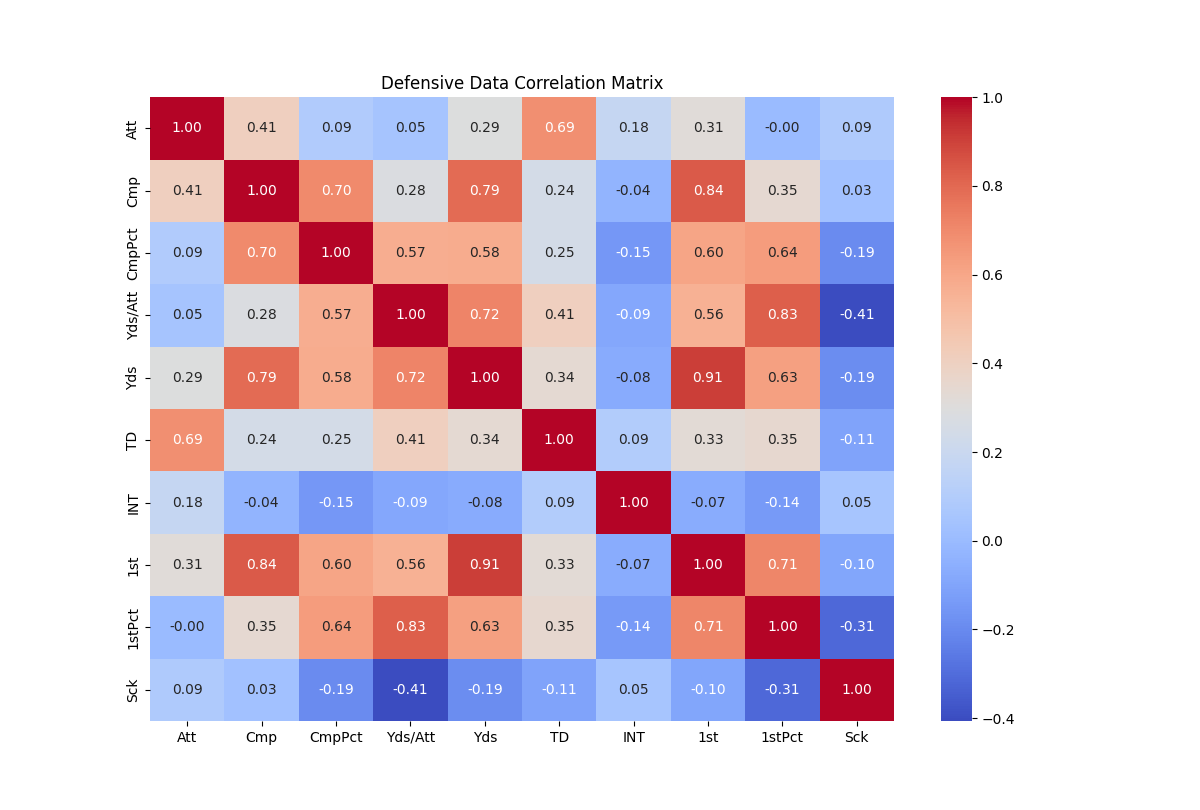
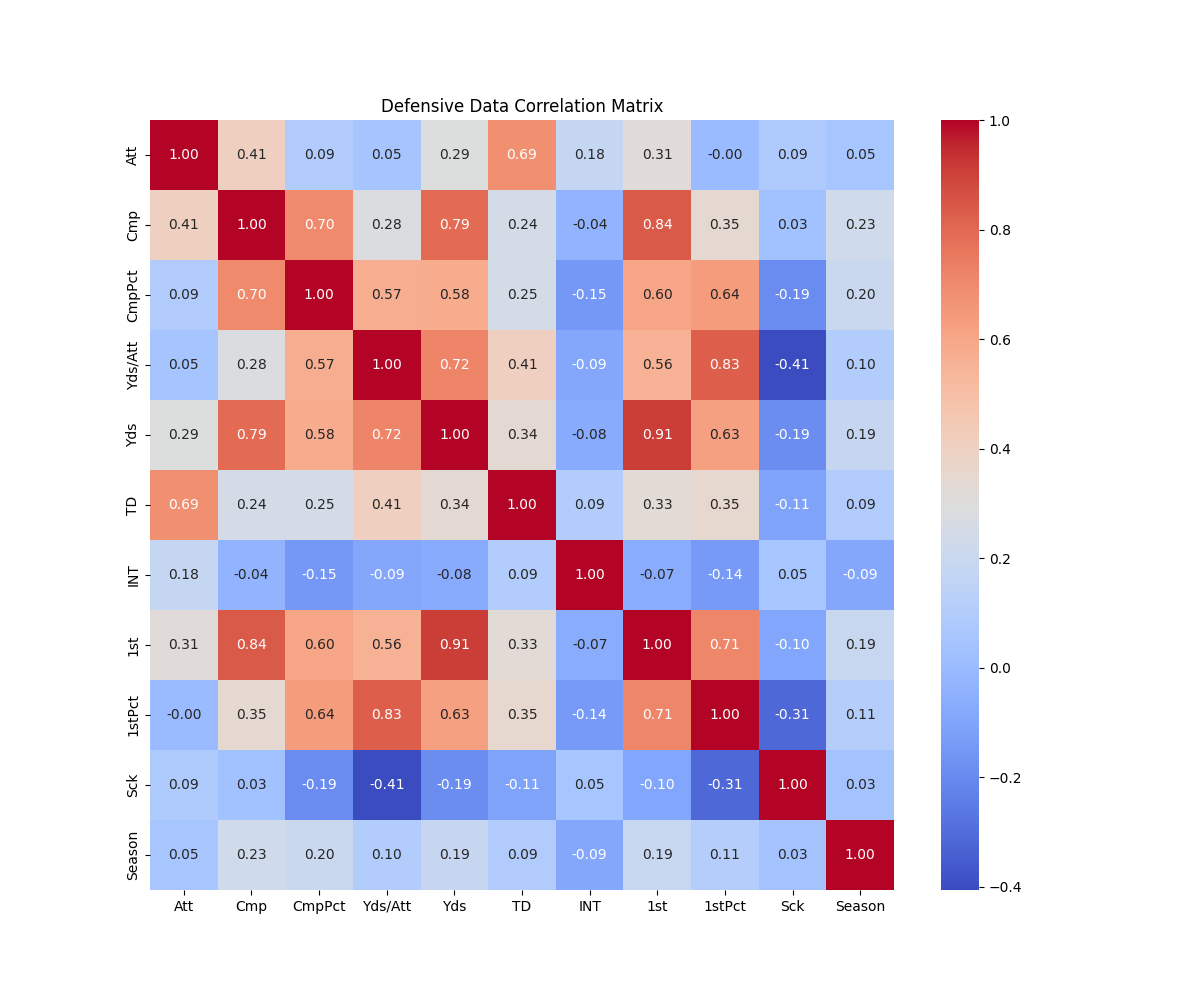
advances on the model

diff --git a/program/model_3.py b/program/model_3.py
@@ -3,6 +3,7 @@ import numpy as np
 import seaborn as sns
 import matplotlib.pyplot as plt
 from sklearn.decomposition import PCA
+from sklearn.discriminant_analysis import LinearDiscriminantAnalysis as LDA
 from sklearn.preprocessing import StandardScaler
 
 # Function to load datasets
@@ -20,6 +21,21 @@ def clean_data(df, columns_to_drop, preserve_col=None):
         df[col].fillna(df[col].mean(), inplace=True)
     if preserved_data is not None:
         df[preserve_col] = preserved_data
+    return df
+
+def assign_seasons_based_on_team_appearances(df, team_col='Team', appearances_per_season=6):
+
+    team_counts = {}
+    seasons = []
+    
+    for team in df[team_col]:
+        if team in team_counts:
+            team_counts[team] += 1
+        else:
+            team_counts[team] = 1
+        season = 2000 + ((team_counts[team] - 1) // appearances_per_season)
+        seasons.append(season)
+    df['Season'] = seasons
     return df
 
 # Function to plot correlation matrix
@@ -47,7 +63,6 @@ offensive_data = load_dataset(o_merged_data_path)
 special_teams_data = load_dataset(st_merged_data_path)
 game_outcomes_data = load_dataset(go_merged_data_path)
 
-print(game_outcomes_data.head())
 
 # Specify columns to drop for each dataset
 defensive_drop_columns = ['Rush', 'YPC', 'RushPct', 'RushPct2', 'FR', 'SFTY', '3rd', '3rdPct', '4th', '4thPct', 'Scrm', 'FF', 'FRPct', 'INTPct', 'INTPct2']
@@ -55,11 +70,68 @@ offensive_drop_columns = ['Rush','YPC','RushPct','RushPct2','RushPct3','Rec','Yd
 special_teams_drop_columns = ['1-19 >','20-29 >','30-39 >','40-49 >','50-59 >','60+ >','FGPct','XPM','XP','KRet','PRet','KO','Yds','TB','Ret','RetPct','OSK','OSKPct','OOB','TD','Cmp','CmpPct','Yds/Att','Pass','INT','Rate','1st','1stPct','20+','40+','Sck','SckY','Avg','FC','FUM']
 game_outcome_drop_columns = ['Unnamed: 7', 'Day', 'Time']
 
+game_outcomes_data['Date'] = pd.to_datetime(game_outcomes_data['Date'])
+# Adjust the season based on the date, considering NFL season spans from September to January
+game_outcomes_data['Season'] = game_outcomes_data['Date'].dt.year
+game_outcomes_data.loc[game_outcomes_data['Date'].dt.month < 9, 'Season'] -= 1
+
+# Initialize the records
+records = {
+    'Team': [],
+    'Season': [],
+    'Wins': [],
+    'Losses': [],
+    'PtsW': [],
+    'PtsL': [],
+    'TOW': [],
+    'TOL': []
+}
+
+# Process each game
+for season, season_df in game_outcomes_data.groupby('Season'):
+    for team in pd.concat([season_df['Winner/tie'], season_df['Loser/tie']]).unique():
+        # Wins
+        wins_df = season_df[season_df['Winner/tie'] == team]
+        losses_df = season_df[season_df['Loser/tie'] == team]
+
+        wins = len(wins_df)
+        losses = len(losses_df)
+        
+        pts_for = wins_df['PtsW'].sum() + losses_df['PtsL'].sum()
+        pts_against = wins_df['PtsL'].sum() + losses_df['PtsW'].sum()
+        
+        tow = wins_df['TOW'].sum() + losses_df['TOL'].sum()
+        tol = wins_df['TOL'].sum() + losses_df['TOW'].sum()
+
+        records['Team'].append(team)
+        records['Season'].append(season)
+        records['Wins'].append(wins)
+        records['Losses'].append(losses)
+        records['PtsW'].append(pts_for)
+        records['PtsL'].append(pts_against)
+        records['TOW'].append(tow)
+        records['TOL'].append(tol)
+
+# Convert the records dictionary to a DataFrame
+team_season_stats = pd.DataFrame(records)
+
+print(team_season_stats.head())
+
 # Clean each dataset
 defensive_data = clean_data(defensive_data, defensive_drop_columns, preserve_col='Team')
 offensive_data = clean_data(offensive_data, offensive_drop_columns,  preserve_col='Team')
 special_teams_data = clean_data(special_teams_data, special_teams_drop_columns,  preserve_col='Team')
 game_outcomes_data = clean_data(game_outcomes_data, game_outcome_drop_columns,  preserve_col='Team')
+
+defensive_data = assign_seasons_based_on_team_appearances(defensive_data, appearances_per_season=6)
+offensive_data = assign_seasons_based_on_team_appearances(offensive_data, appearances_per_season=5)
+special_teams_data = assign_seasons_based_on_team_appearances(special_teams_data, appearances_per_season=5)
+
+# Example print to verify the output
+print(defensive_data[['Team', 'Season']].tail)
+print(offensive_data[['Team', 'Season']].tail)
+print(special_teams_data[['Team', 'Season']].tail)
+print(team_season_stats[['Team', 'Season']].tail)
 
 # Plot correlation matrices for each dataset
 plot_correlation_matrix(defensive_data, "Defensive Data Correlation Matrix")
@@ -71,29 +143,27 @@ def keep_numeric_columns(df):
     return df.select_dtypes(include=[np.number])
 
 # Function to identify and remove highly correlated features
-def remove_highly_correlated_features(df, threshold=0.8, exclude_col=None):
-    if exclude_col:
-        analysis_df = df.drop(columns=[exclude_col])
-    else:
-        analysis_df = df
+def remove_highly_correlated_features(df, threshold=0.8, exclude_cols=[]):
+    # Exclude specified columns first
+    analysis_df = df.drop(columns=exclude_cols, errors='ignore')
+    
+    # Ensure that only numeric columns are considered for correlation calculation
+    analysis_df = analysis_df.select_dtypes(include=[np.number])
+    
     corr_matrix = analysis_df.corr().abs()
-    upper = corr_matrix.where(np.triu(np.ones(corr_matrix.shape), k=1).astype(bool))
+    upper = corr_matrix.where(np.triu(np.ones(corr_matrix.shape), k=1).astype(np.bool_))
     to_drop = [column for column in upper.columns if any(upper[column] > threshold)]
-    df_reduced = df.drop(columns=to_drop, axis=1, errors='ignore')
+    
+    # Drop highly correlated columns from the original dataframe
+    df_reduced = df.drop(columns=to_drop, errors='ignore')
     return df_reduced, to_drop
+exclude_columns = ['Team', 'Season']
 
-# Use the functions on the cleaned data
-defensive_numeric = keep_numeric_columns(defensive_data)
-defensive_data_reduced, defensive_to_drop = remove_highly_correlated_features(defensive_data, exclude_col='Team')
-
-offensive_numeric = keep_numeric_columns(offensive_data)
-offensive_data_reduced, offensive_to_drop = remove_highly_correlated_features(offensive_numeric,exclude_col='Team')
-
-special_teams_numeric = keep_numeric_columns(special_teams_data)
-special_teams_data_reduced, special_teams_to_drop = remove_highly_correlated_features(special_teams_numeric,exclude_col='Team')
-
-game_outcomes_numeric = keep_numeric_columns(game_outcomes_data)
-game_outcomes_data_reduced, game_outcomes_to_drop = remove_highly_correlated_features(game_outcomes_numeric,exclude_col='Team')
+# Apply the updated function to your datasets
+defensive_data_reduced, defensive_to_drop = remove_highly_correlated_features(defensive_data, exclude_cols=exclude_columns)
+offensive_data_reduced, offensive_to_drop = remove_highly_correlated_features(offensive_data, exclude_cols=exclude_columns)
+special_teams_data_reduced, special_teams_to_drop = remove_highly_correlated_features(special_teams_data, exclude_cols=exclude_columns)
+game_outcomes_data_reduced, game_outcomes_to_drop = remove_highly_correlated_features(game_outcomes_data, exclude_cols=exclude_columns)
 
 # Now you can plot the correlation matrices of the reduced dataframes
 plot_correlation_matrix(defensive_data_reduced, "Reduced Defensive Data Correlation Matrix")
@@ -101,28 +171,20 @@ plot_correlation_matrix(offensive_data_reduced, "Reduced Offensive Data Correlat
 plot_correlation_matrix(special_teams_data_reduced, "Reduced Special Teams Data Correlation Matrix")
 plot_correlation_matrix(game_outcomes_data_reduced, "Reduced Game Outcomes Data Correlation Matrix")
 
-def apply_pca(df, exclude_col='Team', explained_variance_ratio=0.95):
-    if exclude_col in df.columns:
-        exclude_data = df[[exclude_col]]
-        df = df.drop(columns=[exclude_col])
-    else:
-        exclude_data = None
+def apply_pca(df, exclude_cols=['Team', 'Season'], explained_variance_ratio=0.95):
+    exclude_data = df[exclude_cols]
+    df = df.drop(columns=exclude_cols, errors='ignore')
     
-    # Standardize the data
     scaler = StandardScaler()
     standardized_data = scaler.fit_transform(df)
     
-    # Apply PCA
     pca = PCA(n_components=explained_variance_ratio)
     principal_components = pca.fit_transform(standardized_data)
     
-    # Convert to a DataFrame
     columns = [f'PC{i+1}' for i in range(pca.n_components_)]
     df_pca = pd.DataFrame(data=principal_components, columns=columns)
     
-    # Reattach the excluded column if it was separated
-    if exclude_data is not None:
-        df_pca = pd.concat([exclude_data.reset_index(drop=True), df_pca], axis=1)
+    df_pca = pd.concat([exclude_data.reset_index(drop=True), df_pca], axis=1)
     
     return df_pca, pca
 
@@ -149,12 +211,10 @@ print("Offensive Data PCA Explained Variance Ratio:", offensive_pca_model.explai
 print("Special Teams Data PCA Explained Variance Ratio:", special_teams_pca_model.explained_variance_ratio_)
 print("Game Outcomes Data PCA Explained Variance Ratio:", game_outcomes_pca_model.explained_variance_ratio_)
 
-# Merge PCA datasets based on 'Team' column
-# This assumes that 'Team' column still exists in each of the PCA datasets
-merged_data = game_outcomes_data_pca.merge(defensive_data_pca, on='Team', how='left', suffixes=('', '_def'))
-merged_data = merged_data.merge(offensive_data_pca, on='Team', how='left', suffixes=('', '_off'))
-merged_data = merged_data.merge(special_teams_data_pca, on='Team', how='left', suffixes=('', '_st'))
+keys = ['Team', 'Season']
+merged_data = game_outcomes_data_pca.merge(defensive_data_pca, on=keys, how='left', suffixes=('', '_def'))
+merged_data = merged_data.merge(offensive_data_pca, on=keys, how='left', suffixes=('', '_off'))
+merged_data = merged_data.merge(special_teams_data_pca, on=keys, how='left', suffixes=('', '_st'))
 
-# Print the merged dataset
 print("Merged Data after PCA:")
 print(merged_data.head())

diff --git a/program/model_2.py b/program/model_2.py
@@ -7,13 +7,39 @@ import joblib
 from sklearn.decomposition import PCA
 from sklearn.preprocessing import StandardScaler
 from sklearn.impute import SimpleImputer
-from sklearn.model_selection import train_test_split
-from sklearn.ensemble import RandomForestClassifier
+from sklearn.model_selection import train_test_split, GridSearchCV
+from sklearn.ensemble import RandomForestClassifier , GradientBoostingClassifier
+from sklearn.linear_model import LogisticRegression
+from sklearn.neural_network import MLPClassifier
+from sklearn.tree import DecisionTreeClassifier
+from sklearn.neighbors import KNeighborsClassifier
+from sklearn.svm import SVC
 from sklearn.metrics import classification_report , accuracy_score , confusion_matrix
 
 def train_and_predict(team1, team2):
     model = None
     combined_stats = pd.DataFrame()
+
+    def train_and_evaluate_model(model, X_train, y_train, X_test, y_test, model_name='Model'):
+        try:
+            # For logistic regression with GridSearchCV
+            if model_name == "Logistic Regression (GridSearchCV)":
+                model.fit(X_train, y_train)
+                best_model = model.best_estimator_
+                y_pred = best_model.predict(X_test)
+                print(f"Results for {model_name}:")
+                print("Best Parameters:", model.best_params_)
+            else:
+                model.fit(X_train, y_train)
+                y_pred = model.predict(X_test)
+                print(f"Results for {model_name}:")
+
+            print(classification_report(y_test, y_pred))
+            print("Accuracy:", accuracy_score(y_test, y_pred))
+            print("-----------\n")
+        except Exception as e:
+            print(f"An error occurred while training the {model_name}: {e}")
+
 
     # Begin Loading, Cleaning and Preproccessing of all datasets
     def load_defensive(file_path, na_values=None):
@@ -214,5 +240,28 @@ def train_and_predict(team1, team2):
 
     # Return the trained model and the principal components DataFrame
     combined_stats = pc_df
+
+    lr_model = LogisticRegression(random_state=42, max_iter=1000)
+    param_grid = {
+        'C': [0.001, 0.01, 0.1, 1, 10, 100],
+        'solver': ['liblinear', 'saga']
+    }
+    grid_search_lr = GridSearchCV(estimator=lr_model, param_grid=param_grid, cv=5, scoring='accuracy', verbose=1, n_jobs=-1)
+
+    # Initialize models outside of the function
+    models = {
+        "Logistic Regression (GridSearchCV)": grid_search_lr,
+        "Gradient Boosting": GradientBoostingClassifier(n_estimators=100, learning_rate=1.0, max_depth=1, random_state=42),
+        "KNN": KNeighborsClassifier(n_neighbors=5),
+        "Decision Tree": DecisionTreeClassifier(random_state=42),
+        "Neural Network": MLPClassifier(random_state=42, max_iter=1000),
+        "SVM": SVC(kernel='linear', random_state=42)
+    }
+
+# Call train_and_evaluate_model for each model
+    for model_name, model in models.items():
+        train_and_evaluate_model(model, X_train, y_train, X_test, y_test, model_name)
+
+
 
     return rf_model, combined_stats
